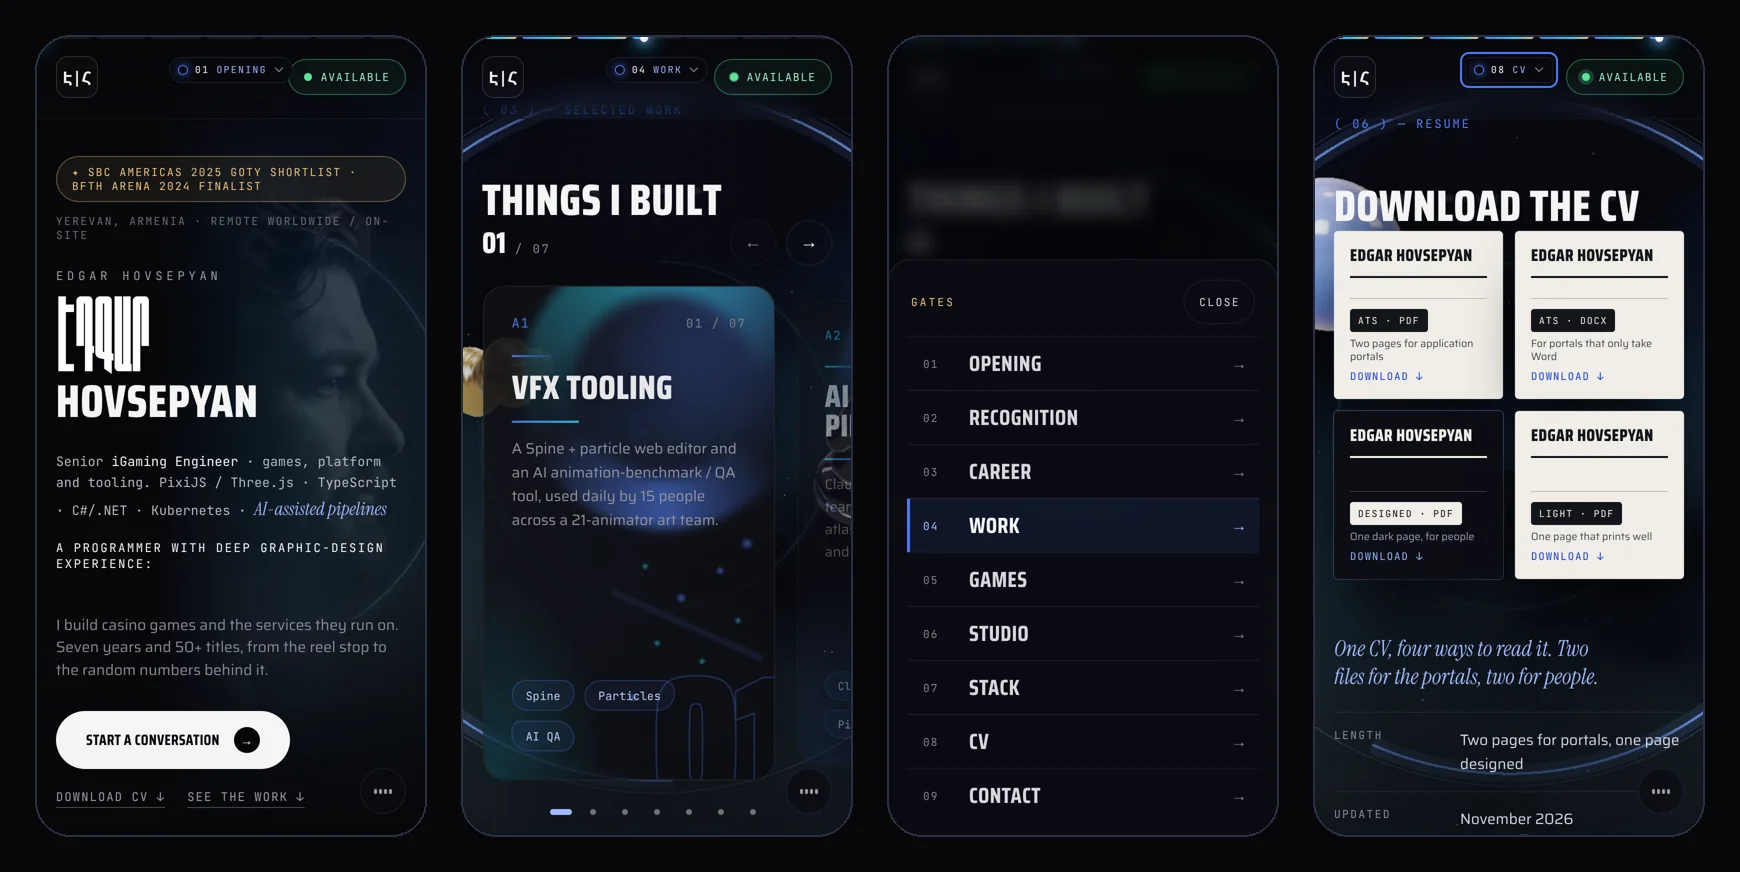
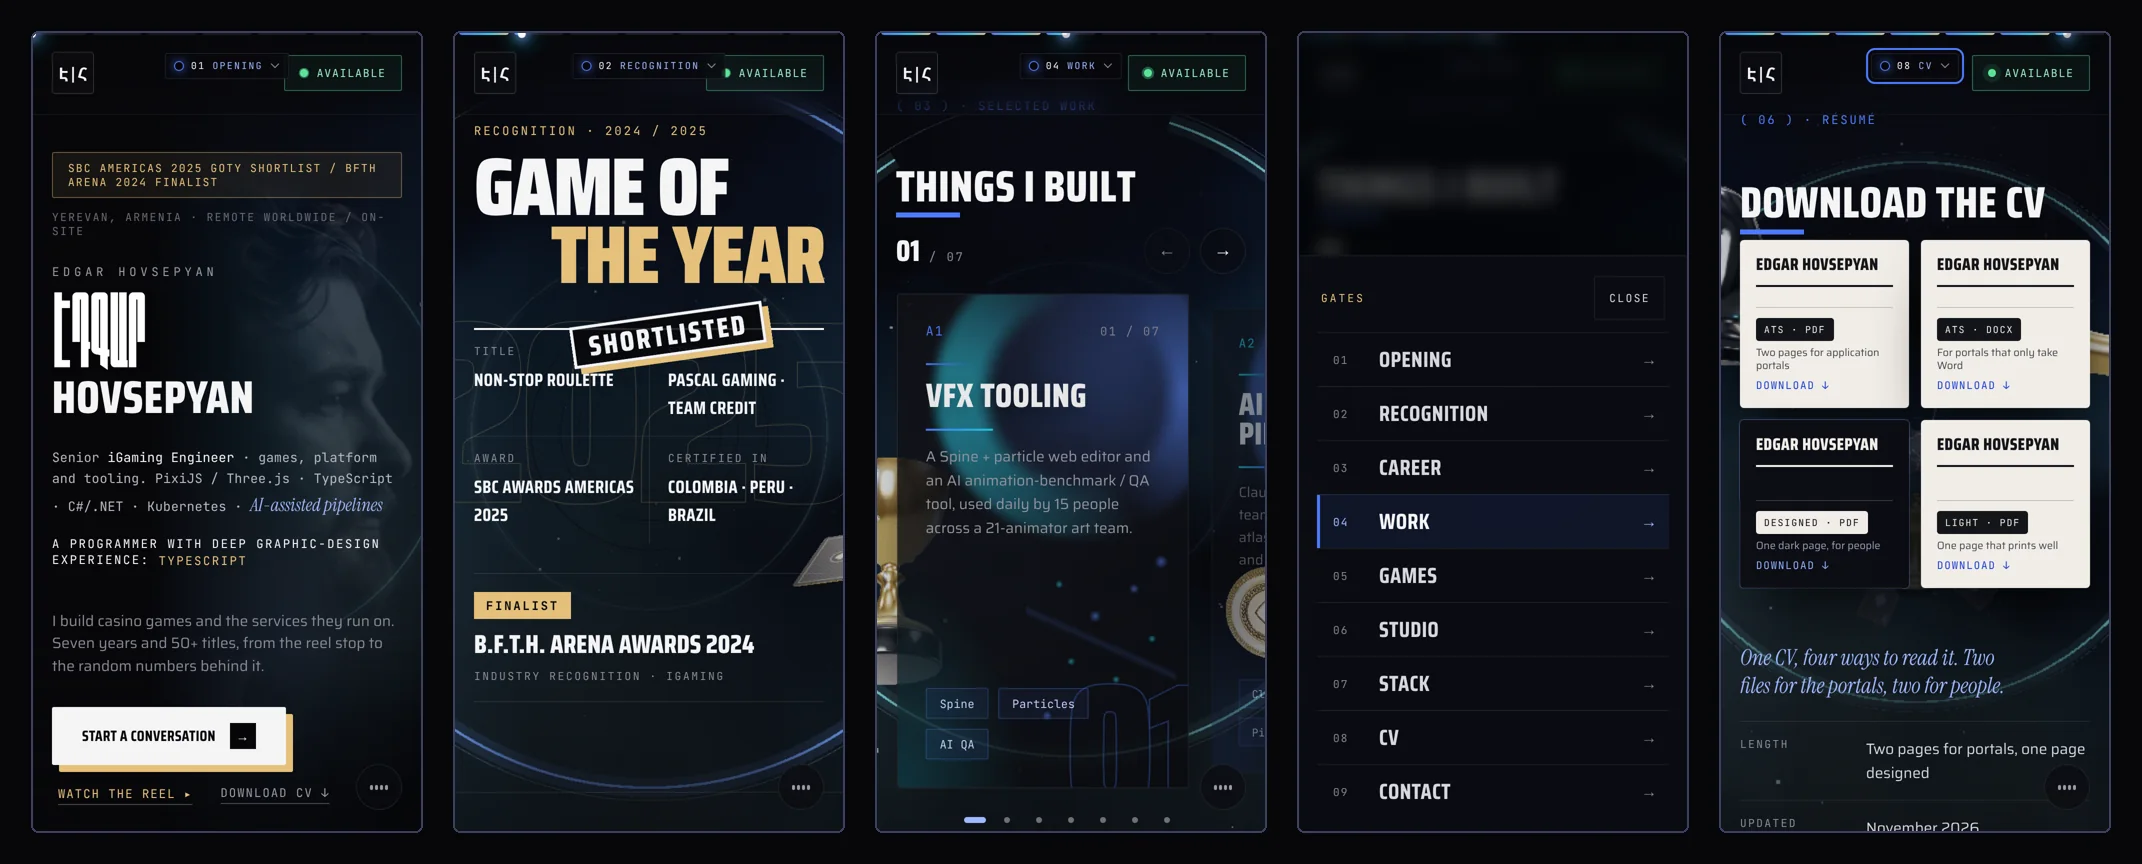
README: retake the phone strip in the current style
Five screens now: hero, awards poster, work carousel, section menu, CV grid.

Claude-Session: https://claude.ai/code/session_018CxHpoaqwaNnabH2ezhRsh

diff --git a/README.md b/README.md
@@ -79,7 +79,7 @@ The full CV is in [`CV-2026.md`](CV-2026.md), and on the site as PDF and Word.
 </table>
 
 <div align="center">
-  <img src=".github/media/phones.webp" width="100%" alt="Four phone screens: hero, work carousel, section menu and CV grid" />
+  <img src=".github/media/phones.webp" width="100%" alt="Five phone screens: hero, awards poster, work carousel, section menu and CV grid" />
   <sub><b>On a phone.</b> The gallery becomes a swipe carousel, the gate strip in the header opens the section menu, the CV sheets become a grid, and the 3D pieces ride the edges of the screen so the text stays clear.</sub>
 </div>
 
